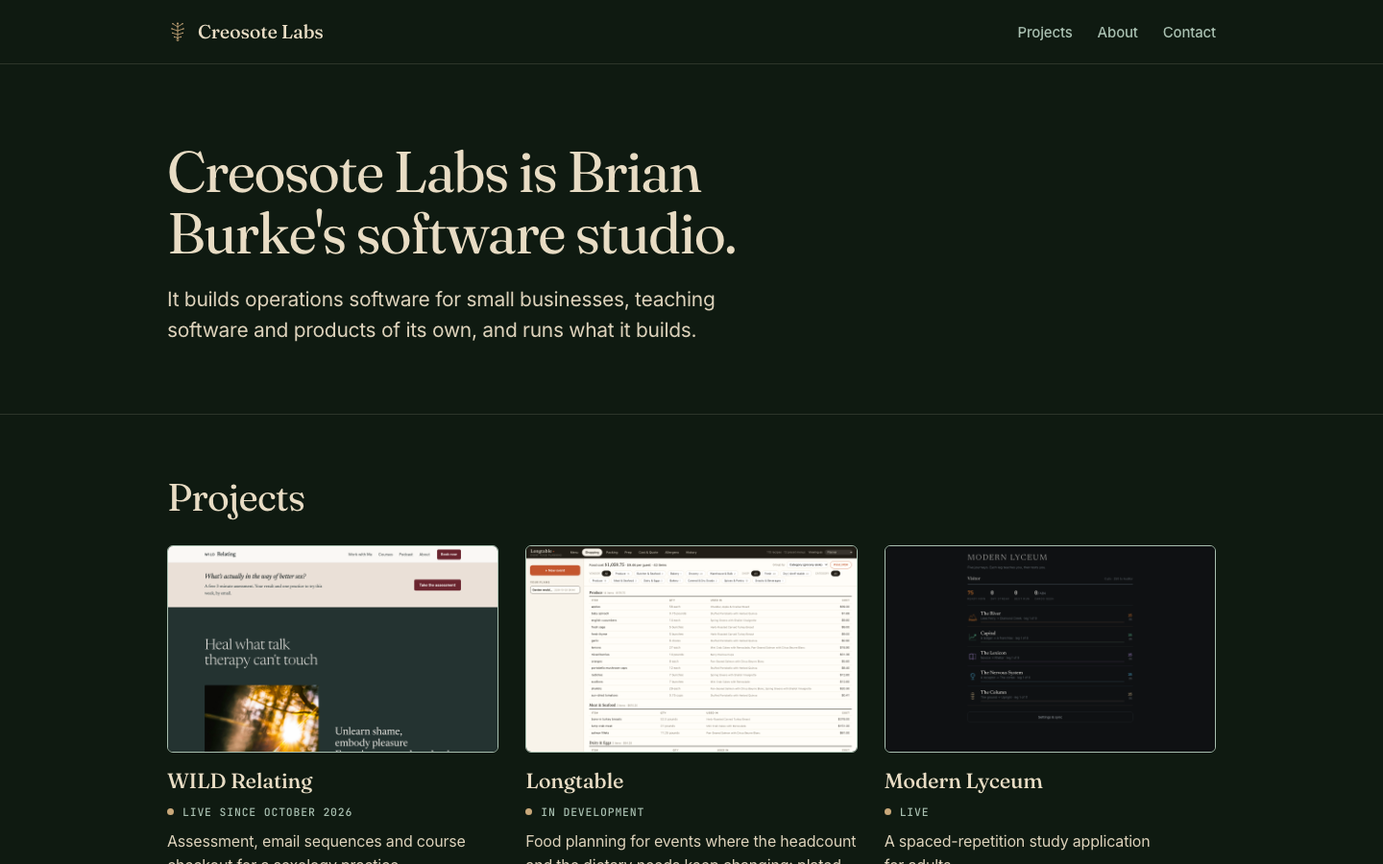
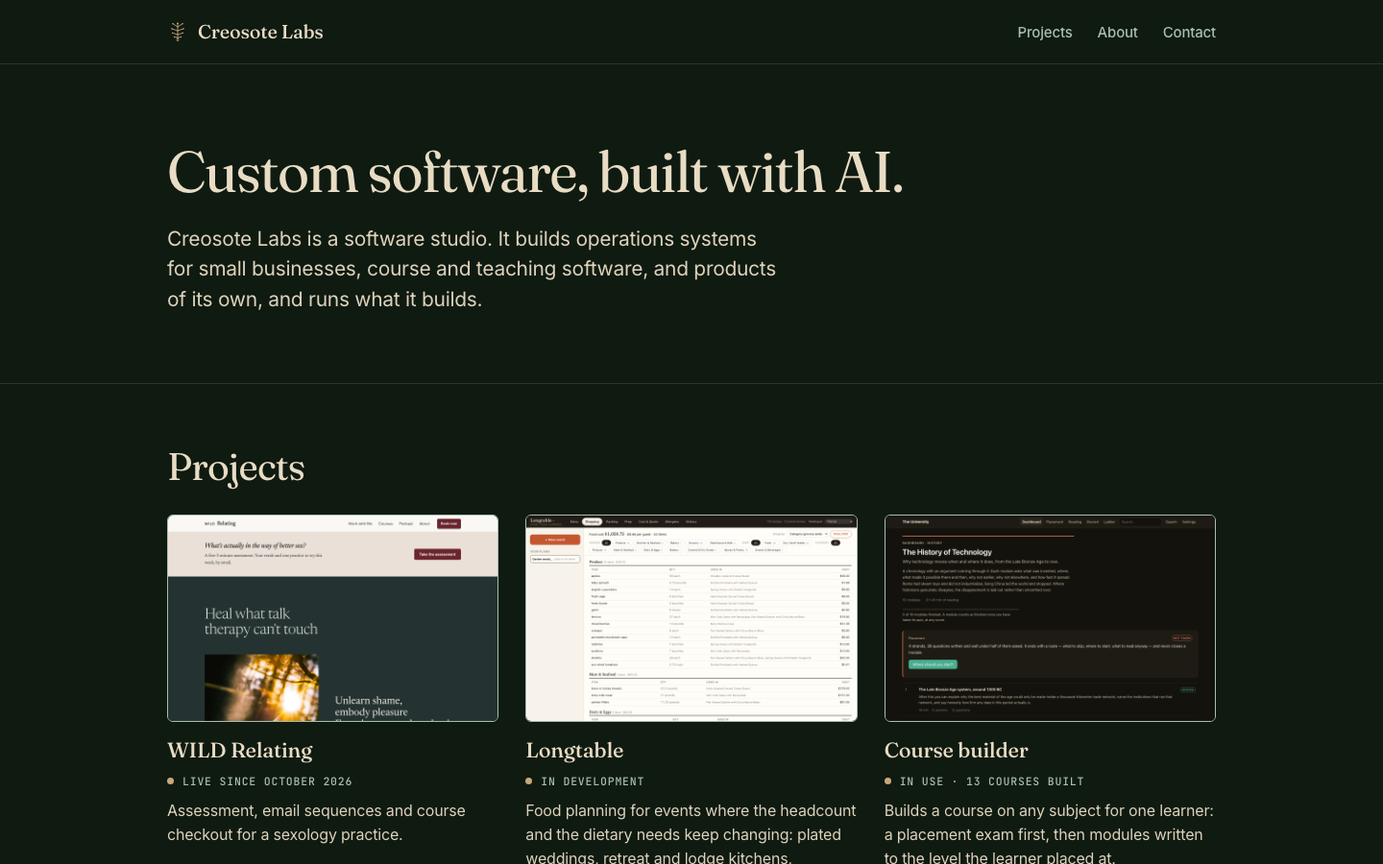
Portfolio: drop the private apps, add the course builder and both Gate City games, new hero
Removes The University, Modern Lyceum, the RSI course, Daily Brief and
the finance system. Adds the course builder as a standalone tool with a
University course page as its screenshot, splits Gate City into the
reading game and The Mint with live links, and changes the hero to
"Custom software, built with AI." over a line that says what the
studio builds.

diff --git a/docs/projects.html b/docs/projects.html
@@ -4,7 +4,7 @@
 <meta charset="utf-8">
 <meta name="viewport" content="width=device-width, initial-scale=1">
 <title>Projects · Creosote Labs</title>
-<meta name="description" content="Software built by Creosote Labs: trip operations for a river outfitter, a website for a sexology practice, Longtable, Scenario, four teaching projects and a set of tools.">
+<meta name="description" content="Software built by Creosote Labs: trip operations for a river outfitter, a website for a sexology practice, Longtable, Scenario, a course builder, two learning games and a set of tools.">
 <link rel="canonical" href="https://bigburkedogg.github.io/creosote-labs-site/projects.html">
 <link rel="icon" href="/creosote-labs-site/favicon.svg" type="image/svg+xml">
 <meta name="theme-color" content="#faf6ee" media="(prefers-color-scheme: light)">
@@ -20,8 +20,8 @@
 <div class="page-title"><div class="wrap"><h1>Projects</h1></div></div>
 <section class="sec" id="for-clients"><div class="wrap"><h2 class="sec-title">For clients</h2><ul class="entries"><li class="entry" id="river-outfitter-operations"><div class="entry-body"><h3>Trip operations for a river outfitter</h3><p class="status">In production</p><div class="entry-text"><p>An outfitter running multi-day river trips kept its trip information in five places and sent four menu-planning attachments with every booking. Creosote replaced that with one system. Guests plan their trip menu in a web planner built on a library of more than 900 recipes; each menu produces a shopping list ordered by store section and a packing list broken out by camp and storage bin, and a dietary restriction entered once reaches every list. A trip tracker records the due date and the done date of each milestone. Creosote also wrote the staff and new-hire guides, recovered three weeks of lost CRM email through the mail and CRM APIs, and set the office up to produce its own invoices from its existing templates.</p></div></div></li><li class="entry has-shot" id="wild-relating"><img class="shot" src="/creosote-labs-site/media/projects/wild-relating.png" alt="WILD Relating screenshot" width="1440" height="900" loading="lazy" decoding="async"><div class="entry-body"><h3>WILD Relating</h3><p class="status">Live since October 2026</p><div class="entry-text"><p>A sexology practice needed a way to turn podcast listeners into clients. Creosote rebuilt the practice&#x27;s site as one application: an eight-question assessment that sorts each visitor into one of five patterns, an email engine that queues the sequence written for that pattern, a shelf of courses with checkout built in, and an admin page that lists every contact and every message. It runs on Render, and the owner edits the content in the browser.</p></div><p class="visit"><a href="https://wild-relating.onrender.com/">wild-relating.onrender.com</a></p></div></li></ul></div></section>
 <section class="sec" id="products"><div class="wrap"><h2 class="sec-title">Products</h2><ul class="entries"><li class="entry has-shot" id="longtable"><img class="shot" src="/creosote-labs-site/media/projects/longtable.png" alt="Longtable screenshot" width="1440" height="900" loading="lazy" decoding="async"><div class="entry-body"><h3>Longtable</h3><p class="status">In development</p><div class="entry-text"><p>Food planning for events where the headcount and the dietary needs keep changing: plated weddings, retreat and lodge kitchens, backcountry expeditions and week-ahead meal prep. The four formats share one recipe library and one menu generator, so changing a single guest&#x27;s restriction regenerates the menu, the shopping list, the packing list and the cost per head together.</p></div></div></li><li class="entry has-shot" id="scenario"><img class="shot" src="/creosote-labs-site/media/projects/scenario.png" alt="Scenario screenshot" width="1440" height="900" loading="lazy" decoding="async"><div class="entry-body"><h3>Scenario</h3><p class="status">In development</p><div class="entry-text"><p>A planning tool for the money decisions with long effects: selling a rental, refinancing, stopping work for a year. Each option is projected years forward on the same measures, net worth, liquid cash, cash flow and the cash low point, and the options sit side by side.</p></div><p class="detail">The comparable software is sold to financial advisors, not to the person making the decision.</p></div></li></ul></div></section>
-<section class="sec" id="teaching-software"><div class="wrap"><h2 class="sec-title">Teaching software</h2><ul class="entries"><li class="entry" id="the-university"><div class="entry-body"><h3>The University</h3><p class="status">In use · private</p><div class="entry-text"><p>A private university for one learner: thirteen courses across history, language, computing, mathematics and the body, twelve of them opening with a placement exam. The modules for a course are written after its placement exam, to the level the learner placed at. A grader checks answers, and review is spaced.</p></div></div></li><li class="entry has-shot" id="modern-lyceum"><img class="shot" src="/creosote-labs-site/media/projects/modern-lyceum.png" alt="Modern Lyceum screenshot" width="1440" height="900" loading="lazy" decoding="async"><div class="entry-body"><h3>Modern Lyceum</h3><p class="status">Live</p><div class="entry-text"><p>A spaced-repetition study application for adults. Material is organized by subject, each session is built from the items due for review, and an item&#x27;s next review moves further out each time it is answered correctly.</p></div><p class="detail">Installs as a web app and works offline.</p><p class="visit"><a href="https://modern-lyceum.onrender.com/">modern-lyceum.onrender.com</a></p></div></li><li class="entry has-shot" id="rsi-course"><img class="shot" src="/creosote-labs-site/media/projects/rsi-course.png" alt="The RSI Debate, Decoded screenshot" width="1440" height="900" loading="lazy" decoding="async"><div class="entry-body"><h3>The RSI Debate, Decoded</h3><p class="status">2026</p><div class="entry-text"><p>A seventeen-module course built from a single technical conversation about recursive self-improvement in AI, written for readers without a computer-science background.</p></div><p class="detail">A static site; the whole course reads offline.</p></div></li><li class="entry has-shot" id="gate-city"><img class="shot" src="/creosote-labs-site/media/projects/gate-city.png" alt="Gate City screenshot" width="1440" height="900" loading="lazy" decoding="async"><div class="entry-body"><h3>Gate City</h3><p class="status">In use</p><div class="entry-text"><p>Two role-playing games for a young reader who reads below grade level: a reading quest and a math game set in the same world. Every line is spoken aloud, and each curriculum starts at the player&#x27;s real ability rather than the grade on paper.</p></div><p class="detail">The two games share a world but not a cast.</p></div></li></ul></div></section>
-<section class="sec" id="tools"><div class="wrap"><h2 class="sec-title">Tools</h2><ul class="entries"><li class="entry" id="sigmap"><div class="entry-body"><h3>sigmap</h3><p class="status">In use</p><div class="entry-text"><p>Real-estate contract packets arrive as flat PDFs with no fillable fields, so every signature and initial line has to be placed by hand before the packet goes out for signing. sigmap finds those lines from the geometry of the page rather than from an image of it, which gives coordinates exact enough to use.</p></div></div></li><li class="entry has-shot" id="southwest-modern"><img class="shot" src="/creosote-labs-site/media/projects/southwest-modern.png" alt="Southwest Modern screenshot" width="1440" height="900" loading="lazy" decoding="async"><div class="entry-body"><h3>Southwest Modern</h3><p class="status">Built 2026</p><div class="entry-text"><p>The website for Brian&#x27;s real-estate brand: a neighborhood-match assessment, sixteen neighborhood guides, two email guides, a home-value request and an admin contact list, on the same engine as WILD Relating.</p></div><p class="detail">The engine is a Flask application with SQLite, Markdown content and Stripe.</p></div></li><li class="entry" id="daily-brief"><div class="entry-body"><h3>Daily Brief</h3><p class="status">In daily use</p><div class="entry-text"><p>A morning page that assembles the day&#x27;s calendar, the mail that needs an answer, the task list and the finances from their APIs. Opening the page is what refreshes it.</p></div></div></li><li class="entry" id="finance-system"><div class="entry-body"><h3>Finance system</h3><p class="status">In daily use</p><div class="entry-text"><p>Bank and card transactions pulled through SimpleFin into one yearly workbook, receipts filed and matched, property-level reporting for a rental portfolio, and a net-worth dashboard.</p></div></div></li><li class="entry" id="clip-pipeline"><div class="entry-body"><h3>Podcast clip pipeline</h3><p class="status">In use</p><div class="entry-text"><p>Turns long podcast episodes into captioned vertical clips: download, transcript, clip plan, render.</p></div></div></li><li class="entry has-shot" id="this-site"><img class="shot" src="/creosote-labs-site/media/projects/creosote-site.png" alt="This site screenshot" width="1440" height="900" loading="lazy" decoding="async"><div class="entry-body"><h3>This site</h3><p class="status">Live</p><div class="entry-text"><p>Generated from JSON by a Python script with no dependencies, with a browser editor that saves, previews and publishes in one click.</p></div></div></li></ul></div></section>
+<section class="sec" id="teaching-software"><div class="wrap"><h2 class="sec-title">Teaching software</h2><ul class="entries"><li class="entry has-shot" id="course-builder"><img class="shot" src="/creosote-labs-site/media/projects/course-builder.png" alt="Course builder screenshot" width="1440" height="900" loading="lazy" decoding="async"><div class="entry-body"><h3>Course builder</h3><p class="status">In use · 13 courses built</p><div class="entry-text"><p>Builds a course on any subject for one learner. It writes the placement exam first: three to six strands, each starting in the middle and moving up or down with every answer, with written questions graded against a rubric, and a result that is a route through the course rather than a score. The modules are then written by a language model to a fixed specification, shorter where the learner placed high and fuller where they placed low, and a checker rejects any quiz question whose answer is not in the module&#x27;s own text. The finished course runs in a static web app with a quiz engine, written-answer grading and a progress record. Thirteen courses so far, from the history of technology and linear algebra to Spanish and dog training: 92 modules and 12 placement exams.</p></div></div></li><li class="entry has-shot" id="gate-city"><img class="shot" src="/creosote-labs-site/media/projects/gate-city.png" alt="Gate City screenshot" width="1440" height="900" loading="lazy" decoding="async"><div class="entry-body"><h3>Gate City</h3><p class="status">Live</p><div class="entry-text"><p>A reading game for a young reader who reads below grade level, set in an anime dungeon-hunter world. Twelve gates follow the phonics sequence from three-letter words to multisyllable words and affixes, each with word lists, sight words, decodable sentences with comprehension questions and a boss passage. Every word and line is spoken by a neural voice that runs in the browser, every purchase in the shop is a money-math problem, and a save follows the player between devices with a name and a four-number code. The whole game is one HTML file.</p></div><p class="visit"><a href="https://gate-city.onrender.com/">gate-city.onrender.com</a></p></div></li><li class="entry has-shot" id="gate-city-mint"><img class="shot" src="/creosote-labs-site/media/projects/gate-city-mint.png" alt="Gate City: The Mint screenshot" width="1440" height="900" loading="lazy" decoding="async"><div class="entry-body"><h3>Gate City: The Mint</h3><p class="status">Live</p><div class="entry-text"><p>A math game set in the same world as Gate City. Twelve gates teach the times tables from 2 to 12 and column addition and subtraction, carrying, borrowing and borrowing across zeros, as a mix of the written method and the mental strategy behind it, each with its own visual model. Every problem is read aloud, so a player whose reading lags their math is never stuck on the words. Each solved problem is a strike against a counterfeit coin, and clearing the district rebuilds the Master Die and mints the First Coin.</p></div><p class="visit"><a href="https://gate-city-mint.onrender.com/">gate-city-mint.onrender.com</a></p></div></li></ul></div></section>
+<section class="sec" id="tools"><div class="wrap"><h2 class="sec-title">Tools</h2><ul class="entries"><li class="entry" id="sigmap"><div class="entry-body"><h3>sigmap</h3><p class="status">In use</p><div class="entry-text"><p>Real-estate contract packets arrive as flat PDFs with no fillable fields, so every signature and initial line has to be placed by hand before the packet goes out for signing. sigmap finds those lines from the geometry of the page rather than from an image of it, which gives coordinates exact enough to use.</p></div></div></li><li class="entry has-shot" id="southwest-modern"><img class="shot" src="/creosote-labs-site/media/projects/southwest-modern.png" alt="Southwest Modern screenshot" width="1440" height="900" loading="lazy" decoding="async"><div class="entry-body"><h3>Southwest Modern</h3><p class="status">Built 2026</p><div class="entry-text"><p>The website for Brian&#x27;s real-estate brand: a neighborhood-match assessment, sixteen neighborhood guides, two email guides, a home-value request and an admin contact list, on the same engine as WILD Relating.</p></div><p class="detail">The engine is a Flask application with SQLite, Markdown content and Stripe.</p></div></li><li class="entry" id="clip-pipeline"><div class="entry-body"><h3>Podcast clip pipeline</h3><p class="status">In use</p><div class="entry-text"><p>Turns long podcast episodes into captioned vertical clips: download, transcript, clip plan, render.</p></div></div></li><li class="entry has-shot" id="this-site"><img class="shot" src="/creosote-labs-site/media/projects/creosote-site.png" alt="This site screenshot" width="1440" height="900" loading="lazy" decoding="async"><div class="entry-body"><h3>This site</h3><p class="status">Live</p><div class="entry-text"><p>Generated from JSON by a Python script with no dependencies, with a browser editor that saves, previews and publishes in one click.</p></div></div></li></ul></div></section>
 </main>
 <footer class="site-footer"><div class="wrap foot"><p class="foot-line"><svg viewBox="-120 -120 240 240" aria-hidden="true" focusable="false"><g stroke="currentColor" stroke-width="9" stroke-linecap="round" fill="none"><path d="M0 85.5V-95"/><path d="M0-55-55-90"/><path d="M0-55 55-90"/><path d="M0-10-65-33"/><path d="M0-10 65-33"/><path d="M0 33-57 15"/><path d="M0 33 57 15"/><path d="M0 70-38 60"/><path d="M0 70 38 60"/></g><g fill="currentColor"><circle cx="0" cy="-95" r="10"/><circle cx="-55" cy="-90" r="8"/><circle cx="55" cy="-90" r="8"/><circle cx="-65" cy="-33" r="8"/><circle cx="65" cy="-33" r="8"/><circle cx="-57" cy="15" r="8"/><circle cx="57" cy="15" r="8"/><circle cx="-38" cy="60" r="7"/><circle cx="38" cy="60" r="7"/></g><circle cx="0" cy="95" r="11" fill="none" stroke="currentColor" stroke-width="8"/></svg><span>Creosote Labs · Brian Burke · <a href="mailto:brian@brianburke.net">brian@brianburke.net</a></span></p><nav class="foot-nav" aria-label="Footer"><a href="/creosote-labs-site/projects.html">Projects</a><a href="/creosote-labs-site/about.html">About</a><a href="/creosote-labs-site/contact.html">Contact</a></nav></div></footer>
 <script src="/creosote-labs-site/site.js"></script>

diff --git a/docs/index.html b/docs/index.html
@@ -3,8 +3,8 @@
 <head>
 <meta charset="utf-8">
 <meta name="viewport" content="width=device-width, initial-scale=1">
-<title>Creosote Labs · Brian Burke</title>
-<meta name="description" content="Creosote Labs is Brian Burke&#x27;s software studio. It builds operations software for small businesses, teaching software and products of its own, and runs what it builds.">
+<title>Creosote Labs · Custom software, built with AI</title>
+<meta name="description" content="Creosote Labs is a software studio. It builds operations systems for small businesses, course and teaching software, and products of its own, and runs what it builds.">
 <link rel="canonical" href="https://bigburkedogg.github.io/creosote-labs-site/">
 <link rel="icon" href="/creosote-labs-site/favicon.svg" type="image/svg+xml">
 <meta name="theme-color" content="#faf6ee" media="(prefers-color-scheme: light)">
@@ -17,8 +17,8 @@
 <body>
 <header class="site-header"><div class="wrap bar"><a class="wordmark" href="/creosote-labs-site/" aria-label="Creosote Labs home"><svg viewBox="-120 -120 240 240" aria-hidden="true" focusable="false"><g stroke="currentColor" stroke-width="9" stroke-linecap="round" fill="none"><path d="M0 85.5V-95"/><path d="M0-55-55-90"/><path d="M0-55 55-90"/><path d="M0-10-65-33"/><path d="M0-10 65-33"/><path d="M0 33-57 15"/><path d="M0 33 57 15"/><path d="M0 70-38 60"/><path d="M0 70 38 60"/></g><g fill="currentColor"><circle cx="0" cy="-95" r="10"/><circle cx="-55" cy="-90" r="8"/><circle cx="55" cy="-90" r="8"/><circle cx="-65" cy="-33" r="8"/><circle cx="65" cy="-33" r="8"/><circle cx="-57" cy="15" r="8"/><circle cx="57" cy="15" r="8"/><circle cx="-38" cy="60" r="7"/><circle cx="38" cy="60" r="7"/></g><circle cx="0" cy="95" r="11" fill="none" stroke="currentColor" stroke-width="8"/></svg><span>Creosote Labs</span></a><nav class="nav" aria-label="Main"><a href="/creosote-labs-site/projects.html">Projects</a><a href="/creosote-labs-site/about.html">About</a><a href="/creosote-labs-site/contact.html">Contact</a></nav></div></header>
 <main id="main">
-<section class="hero"><div class="wrap"><h1>Creosote Labs is Brian Burke&#x27;s software studio.</h1><p class="lead">It builds operations software for small businesses, teaching software and products of its own, and runs what it builds.</p></div></section>
-<section class="sec" id="projects"><div class="wrap"><h2 class="sec-title">Projects</h2><ul class="tiles"><li class="tile"><img class="shot" src="/creosote-labs-site/media/projects/wild-relating.png" alt="WILD Relating screenshot" width="1440" height="900" loading="lazy" decoding="async"><h3><a href="/creosote-labs-site/projects.html#wild-relating">WILD Relating</a></h3><p class="status">Live since October 2026</p><p class="summary">Assessment, email sequences and course checkout for a sexology practice.</p></li><li class="tile"><img class="shot" src="/creosote-labs-site/media/projects/longtable.png" alt="Longtable screenshot" width="1440" height="900" loading="lazy" decoding="async"><h3><a href="/creosote-labs-site/projects.html#longtable">Longtable</a></h3><p class="status">In development</p><p class="summary">Food planning for events where the headcount and the dietary needs keep changing: plated weddings, retreat and lodge kitchens, backcountry expeditions and week-ahead meal prep.</p></li><li class="tile"><img class="shot" src="/creosote-labs-site/media/projects/modern-lyceum.png" alt="Modern Lyceum screenshot" width="1440" height="900" loading="lazy" decoding="async"><h3><a href="/creosote-labs-site/projects.html#modern-lyceum">Modern Lyceum</a></h3><p class="status">Live</p><p class="summary">A spaced-repetition study application for adults.</p></li><li class="tile"><img class="shot" src="/creosote-labs-site/media/projects/scenario.png" alt="Scenario screenshot" width="1440" height="900" loading="lazy" decoding="async"><h3><a href="/creosote-labs-site/projects.html#scenario">Scenario</a></h3><p class="status">In development</p><p class="summary">A planning tool for the money decisions with long effects: selling a rental, refinancing, stopping work for a year.</p></li><li class="tile"><img class="shot" src="/creosote-labs-site/media/projects/southwest-modern.png" alt="Southwest Modern screenshot" width="1440" height="900" loading="lazy" decoding="async"><h3><a href="/creosote-labs-site/projects.html#southwest-modern">Southwest Modern</a></h3><p class="status">Built 2026</p><p class="summary">The website for Brian&#x27;s real-estate brand: a neighborhood-match assessment, sixteen neighborhood guides, two email guides, a home-value request and an admin contact list, on the same engine as WILD Relating.</p></li><li class="tile"><img class="shot" src="/creosote-labs-site/media/projects/gate-city.png" alt="Gate City screenshot" width="1440" height="900" loading="lazy" decoding="async"><h3><a href="/creosote-labs-site/projects.html#gate-city">Gate City</a></h3><p class="status">In use</p><p class="summary">Two role-playing games for a young reader who reads below grade level: a reading quest and a math game set in the same world.</p></li></ul><p class="more-link"><a href="/creosote-labs-site/projects.html">All projects</a></p></div></section>
+<section class="hero"><div class="wrap"><h1>Custom software, built with AI.</h1><p class="lead">Creosote Labs is a software studio. It builds operations systems for small businesses, course and teaching software, and products of its own, and runs what it builds.</p></div></section>
+<section class="sec" id="projects"><div class="wrap"><h2 class="sec-title">Projects</h2><ul class="tiles"><li class="tile"><img class="shot" src="/creosote-labs-site/media/projects/wild-relating.png" alt="WILD Relating screenshot" width="1440" height="900" loading="lazy" decoding="async"><h3><a href="/creosote-labs-site/projects.html#wild-relating">WILD Relating</a></h3><p class="status">Live since October 2026</p><p class="summary">Assessment, email sequences and course checkout for a sexology practice.</p></li><li class="tile"><img class="shot" src="/creosote-labs-site/media/projects/longtable.png" alt="Longtable screenshot" width="1440" height="900" loading="lazy" decoding="async"><h3><a href="/creosote-labs-site/projects.html#longtable">Longtable</a></h3><p class="status">In development</p><p class="summary">Food planning for events where the headcount and the dietary needs keep changing: plated weddings, retreat and lodge kitchens, backcountry expeditions and week-ahead meal prep.</p></li><li class="tile"><img class="shot" src="/creosote-labs-site/media/projects/course-builder.png" alt="Course builder screenshot" width="1440" height="900" loading="lazy" decoding="async"><h3><a href="/creosote-labs-site/projects.html#course-builder">Course builder</a></h3><p class="status">In use · 13 courses built</p><p class="summary">Builds a course on any subject for one learner: a placement exam first, then modules written to the level the learner placed at.</p></li><li class="tile"><img class="shot" src="/creosote-labs-site/media/projects/scenario.png" alt="Scenario screenshot" width="1440" height="900" loading="lazy" decoding="async"><h3><a href="/creosote-labs-site/projects.html#scenario">Scenario</a></h3><p class="status">In development</p><p class="summary">A planning tool for the money decisions with long effects: selling a rental, refinancing, stopping work for a year.</p></li><li class="tile"><img class="shot" src="/creosote-labs-site/media/projects/southwest-modern.png" alt="Southwest Modern screenshot" width="1440" height="900" loading="lazy" decoding="async"><h3><a href="/creosote-labs-site/projects.html#southwest-modern">Southwest Modern</a></h3><p class="status">Built 2026</p><p class="summary">The website for Brian&#x27;s real-estate brand: a neighborhood-match assessment, sixteen neighborhood guides, two email guides, a home-value request and an admin contact list, on the same engine as WILD Relating.</p></li><li class="tile"><img class="shot" src="/creosote-labs-site/media/projects/gate-city.png" alt="Gate City screenshot" width="1440" height="900" loading="lazy" decoding="async"><h3><a href="/creosote-labs-site/projects.html#gate-city">Gate City</a></h3><p class="status">Live</p><p class="summary">A reading game for a young reader who reads below grade level, set in an anime dungeon-hunter world.</p></li></ul><p class="more-link"><a href="/creosote-labs-site/projects.html">All projects</a></p></div></section>
 <section class="sec" id="about"><div class="wrap"><h2 class="sec-title">About</h2><div class="prose"><p>Brian Burke was chief operating officer of a venture-backed Silicon Valley startup, taught adults for a decade, and is a licensed real-estate agent. He started Creosote Labs in 2026 and builds with AI coding tools.</p></div><p class="more-link"><a href="/creosote-labs-site/about.html">More about Brian</a></p></div></section>
 <section class="sec band" id="contact"><div class="wrap"><h2 class="sec-title">Contact</h2><div class="prose"><p>Write to <a href="mailto:brian@brianburke.net">brian@brianburke.net</a>.</p></div></div></section>
 </main>

diff --git a/docs/about.html b/docs/about.html
@@ -17,7 +17,7 @@
 <body>
 <header class="site-header"><div class="wrap bar"><a class="wordmark" href="/creosote-labs-site/" aria-label="Creosote Labs home"><svg viewBox="-120 -120 240 240" aria-hidden="true" focusable="false"><g stroke="currentColor" stroke-width="9" stroke-linecap="round" fill="none"><path d="M0 85.5V-95"/><path d="M0-55-55-90"/><path d="M0-55 55-90"/><path d="M0-10-65-33"/><path d="M0-10 65-33"/><path d="M0 33-57 15"/><path d="M0 33 57 15"/><path d="M0 70-38 60"/><path d="M0 70 38 60"/></g><g fill="currentColor"><circle cx="0" cy="-95" r="10"/><circle cx="-55" cy="-90" r="8"/><circle cx="55" cy="-90" r="8"/><circle cx="-65" cy="-33" r="8"/><circle cx="65" cy="-33" r="8"/><circle cx="-57" cy="15" r="8"/><circle cx="57" cy="15" r="8"/><circle cx="-38" cy="60" r="7"/><circle cx="38" cy="60" r="7"/></g><circle cx="0" cy="95" r="11" fill="none" stroke="currentColor" stroke-width="8"/></svg><span>Creosote Labs</span></a><nav class="nav" aria-label="Main"><a href="/creosote-labs-site/projects.html">Projects</a><a href="/creosote-labs-site/about.html" aria-current="page">About</a><a href="/creosote-labs-site/contact.html">Contact</a></nav></div></header>
 <main id="main">
-<div class="page-title"><div class="wrap"><h1>Brian Burke</h1></div></div><section class="sec sec-first"><div class="wrap"><div class="prose"><p>Brian Burke builds software and runs it. Before Creosote Labs he was chief operating officer of a venture-backed Silicon Valley startup, where he worked with the company&#x27;s investors. Before that he taught adults for a decade as a yoga teacher, a personal trainer and a golf coach. He is a licensed real-estate agent, owns and renovates rental property, and has a philosophy degree from the University of San Francisco.</p><p>Creosote Labs started in 2026. Its <a href="/creosote-labs-site/projects.html">projects</a> include a trip-operations system for a river outfitter, a website for a sexology practice, two products in development, four teaching projects and a set of tools. All of it was built by one person with AI coding tools, and most of it is in use.</p><p class="contact-line">Write to <a href="mailto:brian@brianburke.net">brian@brianburke.net</a>.</p></div></div></section>
+<div class="page-title"><div class="wrap"><h1>Brian Burke</h1></div></div><section class="sec sec-first"><div class="wrap"><div class="prose"><p>Brian Burke builds software and runs it. Before Creosote Labs he was chief operating officer of a venture-backed Silicon Valley startup, where he worked with the company&#x27;s investors. Before that he taught adults for a decade as a yoga teacher, a personal trainer and a golf coach. He is a licensed real-estate agent, owns and renovates rental property, and has a philosophy degree from the University of San Francisco.</p><p>Creosote Labs started in 2026. Its <a href="/creosote-labs-site/projects.html">projects</a> include a trip-operations system for a river outfitter, a website for a sexology practice, two products in development, a course builder, two learning games and a set of tools. All of it was built by one person with AI coding tools, and most of it is in use.</p><p class="contact-line">Write to <a href="mailto:brian@brianburke.net">brian@brianburke.net</a>.</p></div></div></section>
 </main>
 <footer class="site-footer"><div class="wrap foot"><p class="foot-line"><svg viewBox="-120 -120 240 240" aria-hidden="true" focusable="false"><g stroke="currentColor" stroke-width="9" stroke-linecap="round" fill="none"><path d="M0 85.5V-95"/><path d="M0-55-55-90"/><path d="M0-55 55-90"/><path d="M0-10-65-33"/><path d="M0-10 65-33"/><path d="M0 33-57 15"/><path d="M0 33 57 15"/><path d="M0 70-38 60"/><path d="M0 70 38 60"/></g><g fill="currentColor"><circle cx="0" cy="-95" r="10"/><circle cx="-55" cy="-90" r="8"/><circle cx="55" cy="-90" r="8"/><circle cx="-65" cy="-33" r="8"/><circle cx="65" cy="-33" r="8"/><circle cx="-57" cy="15" r="8"/><circle cx="57" cy="15" r="8"/><circle cx="-38" cy="60" r="7"/><circle cx="38" cy="60" r="7"/></g><circle cx="0" cy="95" r="11" fill="none" stroke="currentColor" stroke-width="8"/></svg><span>Creosote Labs · Brian Burke · <a href="mailto:brian@brianburke.net">brian@brianburke.net</a></span></p><nav class="foot-nav" aria-label="Footer"><a href="/creosote-labs-site/projects.html">Projects</a><a href="/creosote-labs-site/about.html">About</a><a href="/creosote-labs-site/contact.html">Contact</a></nav></div></footer>
 <script src="/creosote-labs-site/site.js"></script>

diff --git a/docs/writing.html b/docs/writing.html
@@ -4,7 +4,7 @@
 <meta charset="utf-8">
 <meta name="viewport" content="width=device-width, initial-scale=1">
 <title>Writing · Creosote Labs</title>
-<meta name="description" content="Creosote Labs is Brian Burke&#x27;s software studio. It builds operations software for small businesses, teaching software and products of its own, and runs what it builds.">
+<meta name="description" content="Creosote Labs is a software studio. It builds operations systems for small businesses, course and teaching software, and products of its own, and runs what it builds.">
 <meta name="robots" content="noindex">
 <link rel="canonical" href="https://bigburkedogg.github.io/creosote-labs-site/writing.html">
 <link rel="icon" href="/creosote-labs-site/favicon.svg" type="image/svg+xml">
